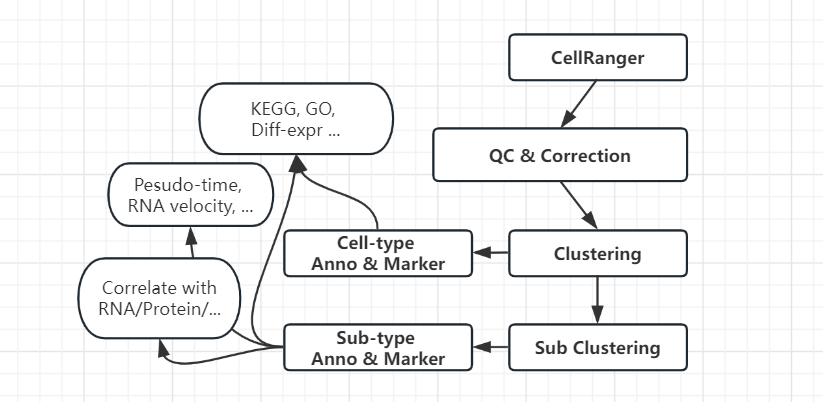
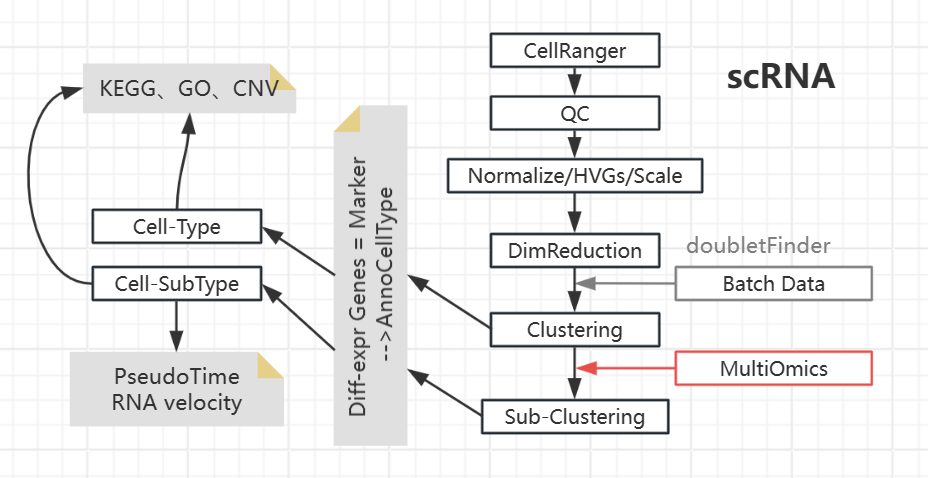
rearrange scRNA

Changed region(s): [[0.0608, 0.0597, 0.9417, 0.9254], [0.0304, 0.3881, 0.0608, 0.5672], [0.0304, 0.209, 0.0608, 0.3284]]

diff --git a/docs/Bioinfo/Pipelines/SingleCell/scRNA.md b/docs/Bioinfo/Pipelines/SingleCell/scRNA.md
@@ -4,72 +4,67 @@ img{
 }
 </style>
 
+scATAC: 基于scRNA得到某种亚细胞的转录谱，或已知reference情况下；可以分析10x平台产生的单细胞水平ATAC数据
 
-## Links
-* 示例数据来源：https://www.10xgenomics.com/resources/datasets
-* 数据库（TBA）
-    * CellMarker：http://biocc.hrbmu.edu.cn/CellMarker/index.jsp
-    * PanglaoDB：https://panglaodb.se/index.html
-    * SingleR datasets
+## scRNA
+
+![](../Pipelines_overview/scRNA.png)
+
+| 任务 | 工具 |
+| -- | -- |
+| ```filtered_feature_bc_matrix/``` | [CellRanger](../../Blocks/CellRanger.md) |
+| PIPELINE |  R: [Seurat](../../Blocks/Seurat.md)<br>Py: [Scanpy](../../Blocks/Scanpy.md) |
+| CellType Anno | R: SingleR, Metacell |
+| Batch Integration | R: Seurat, Harmony, LIGER |
+| MultiOmics Integration | R: Seurat |
+| Doublet Detection | R: DoubletFinder, DoubletDecon<br>Py: DoubletDetection, Scrublet |
+| PseudoTime(Traj) | R: monocle3<br>Py: scVelo |
+| GO GSEA / KEGG Enrichment | R: clusterProfiler |
+
+Others: inferCNV 分析CNV以判断是否是肿瘤细胞，hdWGCNA 分析基因模块，SNV分析（META-CS实验技术改进）
+
+Tips: Bulk mRNA 数据可以帮助验证scRNA数据的完整性；如果还有其它bulk多组学数据，可以尝试算一下相关性
+
+Tips：降维/聚类算法多种多样，似乎Umap等流形降维方法效果较好
+
+### R:Seurat+SingleR
+
+* Seurat对每个细胞统计符合pattern的基因量，然后可以根据这个统计量进行Filtering，或者在Scale时候消除这个统计量的影响（RegressOut），e.g.
+```R
+pbmc[["percent.mt"]] <- PercentageFeatureSet(pbmc, pattern = "^MT-")                      ## Calculating
+pbmc <- subset(pbmc, subset = nFeature_RNA > 200 & nFeature_RNA < 2500 & percent.mt < 5)  ## Filtering
+pbmc <- ScaleData(pbmc, features = rownames(pbmc), vars.to.regress = "percent.mt")        ## RegressOut
+```
+
+| Data QC | 说明 | pattern |
+| -- | -- | -- |
+| Filter off Genes | Appear in >3 Cells | -- |
+| Filter off Cells | Not Doublet: via Detectors <br> minGeneNum > 200-500 <br> maxGeneNum < X, X decided via 'VlnPlot()' <br> (Doublet may contain more genes)  | -- |
+| Filter off Cells + RegressOut | Mitochondrial Genes <15% | ```"^MT-"``` |
+| Filter off Cells + RegressOut | Ribosomal Genes <5% | ```"^RP[SL]"``` |
+| Filter off Cells + RegressOut | Hemoglobin Genes <br> ```"HBA1","HBA2","HBB","HBD","HBE1","HBG1","HBG2","HBM","HBQ1","HBZ"``` | ```^HB[^(P)]``` |
+| Filter off Cells + RegressOut | Cell-Cycle: 见下文  | cc.genes + CellCycleScoring() |
 
 
-## Basic Pipeline (mainly Seurat)
-* CellRanger ...
-* Data QC
-    * Filter off Genes
-        * Appear in >3 Cells
-    * Filter off Cells
-        * Doublet Detection: Scrublet, DoubletFinder, DoubletDecon
-        * Mitochondrial Genes 
-        ```
-        (pattern = "^MT-")     ## <15% OK, later: ScaleData(pbmc, vars.to.regress = "percent.mt")
-        ```
-        * Ribosomal Genes 
-        ```
-        (pattern = "^RP[SL]")  ## <5% OK
-        ```
-        * Hemoglobin Genes 
-        ```
-        (pattern = "^HB[^(P)]")
-       ## "HBA1","HBA2","HBB","HBD","HBE1","HBG1","HBG2","HBM","HBQ1","HBZ"
-       ```
-        * minGeneNum > 200-500 
-        * maxGeneNum < X, X decided via 'VlnPlot()'; Droplets may contain more genes
-* Normalize & Scale & HVGs
-    * NormalizeData() --- "LogNormalize"
-    * FindVariableFeatures() --- **HVGs:** GeneA_cellA v.s. GeneA_Overall
-        * Opt. If dataset is large, use HVGs for afterward analysis
-    * ScaleData() --- Zero-centered or Mean-subtraction
-    * SCTransform() = NormalizeData() + FindVariableFeatures() + ScaleData()
-* Cell-Cycle Scoring and Regression (Opt.)
-    * Pick HVGs
-    * Load Cell Circle Genes --- Seurat: cc.genes
-    * CellCycleScoring()
-    * ScaleData()
-        * Opt.1: vars.to.regress = c("S.Score", "G2M.Score")
-        * Opt.2: vars.to.regress = c("CC.Difference")；CC.Difference = S.Score - G2M.Score
-        * 注意，Opt.1不适合关注细胞分化的实验，因为会完全消除非周期细胞和周期细胞之间的区别；Opt.2 将保持二者间细胞周期差异，仅消除二者内部细胞周期差异
-        * Tips：可以通过查看对PC贡献最多的基因是否是细胞周期相关基因来判断影响
-* Batch Correction
-    * Opt.1: CCA+MNN --- Seurat: FindIntegrationAnchors()+IntegrateData()
-    * Opt.2: Harmony
-* Clustering
-    * PCA
-    * UMAP/tSNE (PCA result as input)
-    * Clustering (PCA result as input)
-    ```
-    scRNA <- FindNeighbors(scRNA, dims = pc.num)
-    scRNA <- FindClusters(scRNA, resolution = 0.5)
-    ```
-* Cell-type Annotation
-    * Find marker genes --- **Diff-expr genes:** cluster v.s. clusters
-    * Annotate clusters (cell types) based on marker genes
-        * SingleR() + HumanPrimaryCellAtlasData(label.main)/CellMarker/PanglaoDB/Papers...
-    * Tips：在这个水平上进行一些常规的分析(cluster间的比较)，比方说KEGG、GO富集分析，差异基因表达分析（cell-type间），etc.
-* Sub-Clustering
-    * Pick a cluster (cell-type), Clustering & Annotate
-        * SingleR() + MonacoImmuneData(label.fine) to sub-clusters
-    * Tips：假设这些sub-type都来自同一个cell-type，在这个水平上进行一些更加细致的操作，比如：对免疫细胞细致分类，拟时序分析，RNA velocity，etc.
+* 根据Variance选出**HVGs:** GeneA_cellA v.s. GeneA_Overall
+    - Opt. If dataset is large, use HVGs for afterward analysis
+
+* (Opt.)根据HVGs进行 [Cell-Cycle Scoring and RegressOut](https://satijalab.org/seurat/articles/cell_cycle_vignette.html)：Pick HVGs --> Load privided Cell Circle Genes ```cc.genes``` --> CellCycleScoring() --> ScaleData()
+    - Opt.1: vars.to.regress = c("S.Score", "G2M.Score")
+    - Opt.2: vars.to.regress = c("CC.Difference")；CC.Difference = S.Score - G2M.Score
+    - 注意，Opt.1不适合关注细胞分化的实验，因为会完全消除非周期细胞和周期细胞之间的区别；Opt.2 将保持二者间细胞周期差异，仅消除二者内部细胞周期差异
+    - Tips：可以通过查看对PC贡献最多的基因是否是细胞周期相关基因来判断影响
+
+* 随后进行Clustering，假设每个Cluster代表一种Cell-type；再次对Cell-type进行Clustering，可得到细胞的分型。
+    1. Find marker genes --- **Diff-expr genes:** cluster v.s. clusters
+    2. Annotate clusters based on marker genes
+
+| -- | DB for SingleR() | -- | Tips |
+| -- | -- | -- | -- |
+| Cell-Type | HumanPrimaryCellAtlasData(label.main), [CellMarker](http://biocc.hrbmu.edu.cn/CellMarker/index.jsp), [PanglaoDB](https://panglaodb.se/index.html), SingleR datasets, Papers | e.g.Tcell/Bcell/... | 在这个水平上进行一些常规的分析(cluster间的比较)，比方说KEGG、GO富集分析，差异基因表达分析（cell-type间） |
+| Cell-Subtype | MonacoImmuneData(label.fine) | e.g.对CD4细胞细致分类 | 在这个水平上进行一些更加细致的操作，比如：拟时序分析，RNA velocity |
+
+
     
 
 ## Meta scRNA (Testing)
@@ -78,23 +73,18 @@ img{
 为了尽量缩小潜在参考基因集范围，可以参考相似研究的Meta Bulk注释提到的基因组；Tips: GTDB使用ANI进行分类，可以使用本地储存的文件，不用去NCBI再下载
 
 其单细胞QC步骤一如前文所述。有两种或许可行的注释、定量方法： 
-    * Anno via FastANI：当需要注释的细胞数量较少时，可以将其比对参考DB，根据ANI确定可能Taxa范围
-    * Anno via Mapping：通过cdhit等对参考基因集进行去重，然后将scRNA数据map上去，根据细胞的mapping信息决定其物种注释(也许可以使用cellranger)
+
+* Anno via FastANI：当需要注释的细胞数量较少时，可以将其比对参考DB，根据ANI确定可能Taxa范围
+* Anno via Mapping：通过cdhit等对参考基因集进行去重，然后将scRNA数据map上去，根据细胞的mapping信息决定其物种注释(也许可以使用cellranger)
 
 Tips：有时如果物种注释结果不理想，我们也可以进行单细胞水平的功能注释(GO,ARG,pathway...)
-
-## 其它
-
-* scATAC: 基于scRNA得到某种亚细胞的转录谱，或已知reference情况下；可以分析10x平台产生的单细胞水平ATAC数据
-* Bulk mRNA 数据可以帮助验证scRNA数据的完整性；如果还有其它bulk多组学数据，可以尝试算一下相关性
-
-
-
-
 
 
 
 ## 参考
+
+各种单细胞测序技术： https://zhuanlan.zhihu.com/p/569346733
+
 数据集汇总： https://www.jianshu.com/p/49e5cf91f819  
 
 NBIS: https://www.jianshu.com/p/1e29e3b9a4ab  

diff --git a/docs/Bioinfo/Blocks/Seurat.md b/docs/Bioinfo/Blocks/Seurat.md
@@ -77,6 +77,7 @@ pbmc <- FindVariableFeatures(pbmc, selection.method = "vst", nfeatures = 2000)
 HVGsNameList <- VariableFeatures(pbmc)
 
 ## Scale: remove unwanted sources of variation
+##     -- Zero-centered or Mean-subtraction
 ##     -- Save to:  pbmc[["RNA"]]$scale.data     Layer
 pbmc <- ScaleData(pbmc, 
           features = rownames(pbmc),        ##  default only HVGs, here all genes
@@ -144,10 +145,6 @@ FeaturePlot(pbmc, features = rownames(All.markers)[1:2], reduction="pca")
 ## scATAC
 
 TBA
-
-
-
-
 
 
 
@@ -242,6 +239,8 @@ LIGER：基于因子分析的整合，适用于具有不同细胞类型组成的
 
 LIGER： https://cloud.tencent.com/developer/article/1814109
 
+Seurat: CCA+MNN --- FindIntegrationAnchors()+IntegrateData()
+
 ```
 
 
@@ -284,6 +283,27 @@ head(pbmc@meta.data$nCount_RNA) ## "numeric" list
 head(pbmc$nCount_RNA)           ## "numeric" list with names: pbmc$nCount_RNA['TTTCTACTGAGGCA-1']
 head(pbmc[['nCount_RNA']])      ## "data.frame" 
 ```
+
+
+
+
+## Spatial
+
+### Visium
+
+BayesSpace聚类：https://zhuanlan.zhihu.com/p/393981571  
+https://www.jianshu.com/p/9206ba12c854
+
+3.2!!! https://www.jianshu.com/p/13d7ea85bd71
+
+https://satijalab.org/seurat/articles/spatial_vignette.html
+
+
+
+
+
+
+
 
 
 
